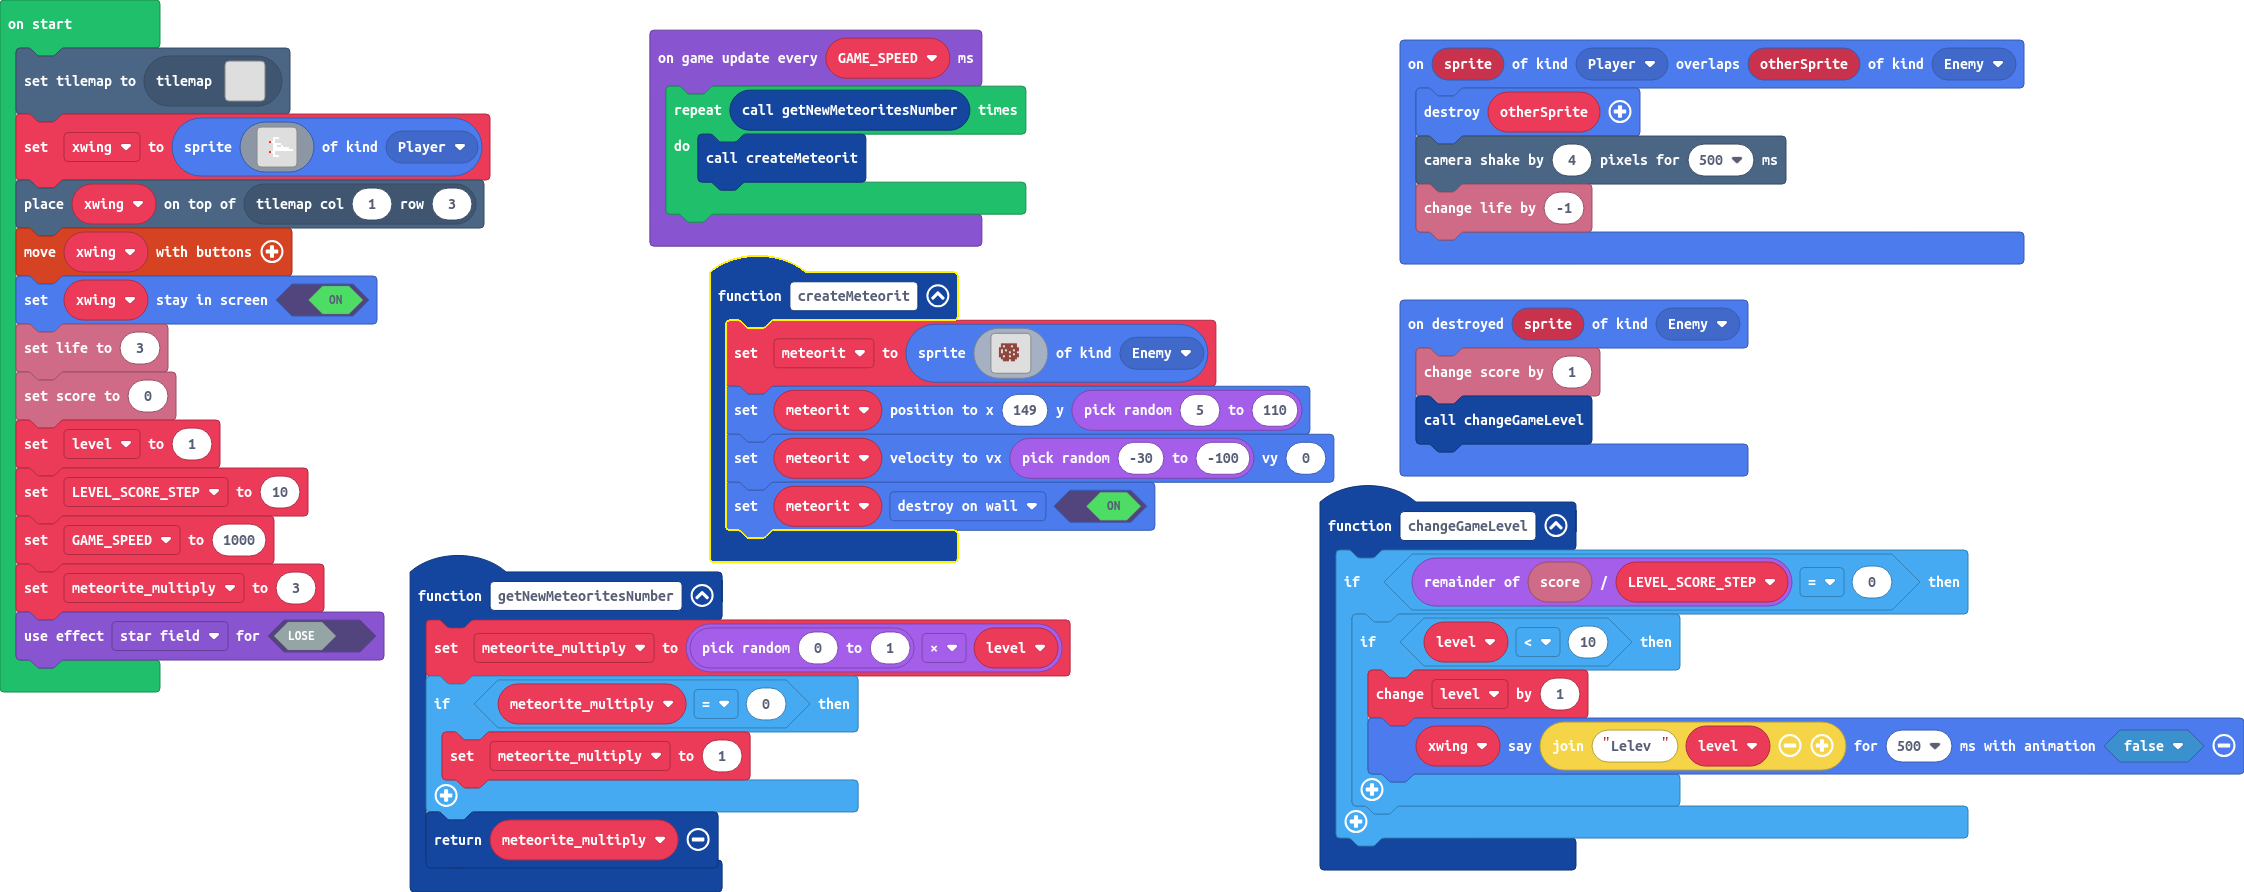
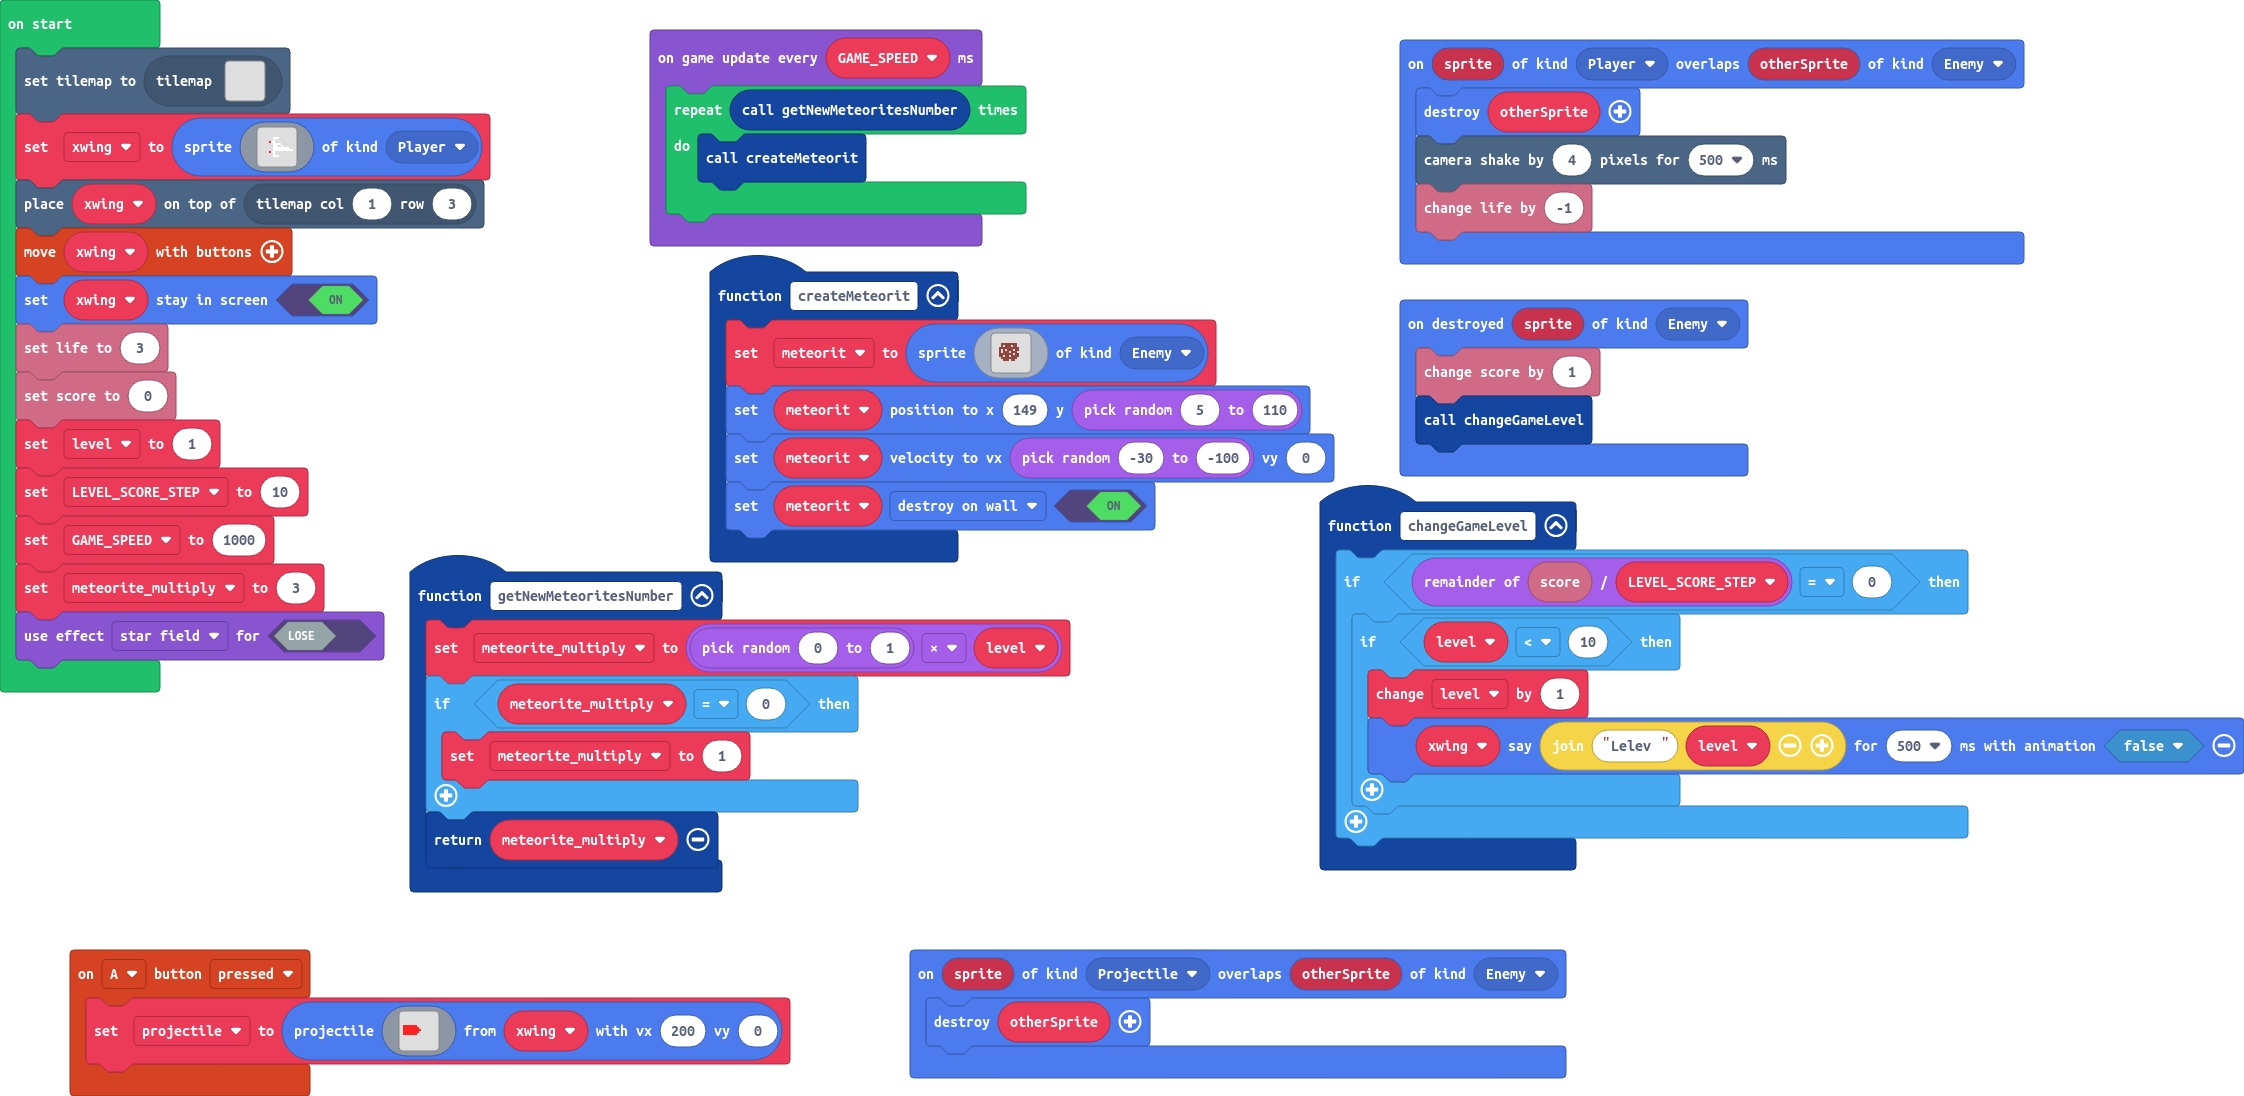
Update pxt.json, main.blocks, main.ts

diff --git a/main.ts b/main.ts
@@ -6,6 +6,26 @@ function changeGameLevel () {
         }
     }
 }
+controller.A.onEvent(ControllerButtonEvent.Pressed, function () {
+    projectile = sprites.createProjectileFromSprite(img`
+        . . . . . . . . . . . . . . . . 
+        . . . . . . . . . . . . . . . . 
+        . . . . . . . . . . . . . . . . 
+        . . . . . . . . . . . . . . . . 
+        . . . . . . . . . . . . . . . . 
+        2 2 2 2 2 2 2 . . . . . . . . . 
+        2 2 2 2 2 2 2 2 . . . . . . . . 
+        2 2 2 2 2 2 2 2 2 . . . . . . . 
+        2 2 2 2 2 2 2 2 . . . . . . . . 
+        2 2 2 2 2 2 2 . . . . . . . . . 
+        . . . . . . . . . . . . . . . . 
+        . . . . . . . . . . . . . . . . 
+        . . . . . . . . . . . . . . . . 
+        . . . . . . . . . . . . . . . . 
+        . . . . . . . . . . . . . . . . 
+        . . . . . . . . . . . . . . . . 
+        `, xwing, 200, 0)
+})
 sprites.onDestroyed(SpriteKind.Enemy, function (sprite) {
     info.changeScoreBy(1)
     changeGameLevel()
@@ -33,6 +53,9 @@ function createMeteorit () {
     meteorit.setVelocity(randint(-30, -100), 0)
     meteorit.setFlag(SpriteFlag.DestroyOnWall, true)
 }
+sprites.onOverlap(SpriteKind.Projectile, SpriteKind.Enemy, function (sprite, otherSprite) {
+    sprites.destroy(otherSprite)
+})
 function getNewMeteoritesNumber () {
     meteorite_multiply = randint(0, 1) * level
     if (meteorite_multiply == 0) {
@@ -46,6 +69,7 @@ sprites.onOverlap(SpriteKind.Player, SpriteKind.Enemy, function (sprite, otherSp
     info.changeLifeBy(-1)
 })
 let meteorit: Sprite = null
+let projectile: Sprite = null
 let meteorite_multiply = 0
 let LEVEL_SCORE_STEP = 0
 let level = 0
